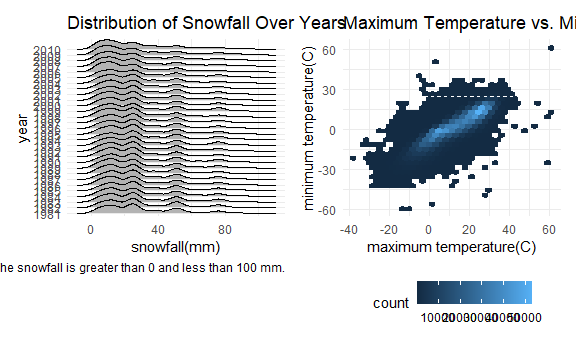
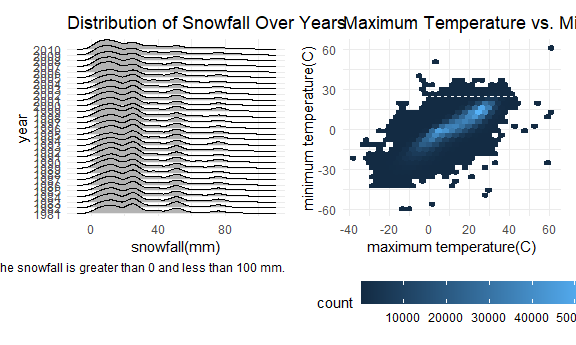
change the legend width of tmax vs tmin plot

Changed region(s): [[0.5312, 0.8116, 1.0, 0.9565]]

diff --git a/p8105_hw3_yj2622.md b/p8105_hw3_yj2622.md
@@ -366,7 +366,7 @@ tmax_plot =
     x = "maximum temperature(C)",
     y = "minimum temperature(C)"
   ) +
-  scale_color_manual(labels = c("1k","2k","3k","4k","5k"))
+  theme(legend.key.width = unit(1.2, "cm"))
 ```
 
 At last, I make a plot showing the distribution of snowfall values
@@ -387,7 +387,7 @@ snow_plot =
   )
 ```
 
-In the end, I join the two plots above together.
+In the end, I combine the two panels above together.
 
 ``` r
 snow_plot + tmax_plot
